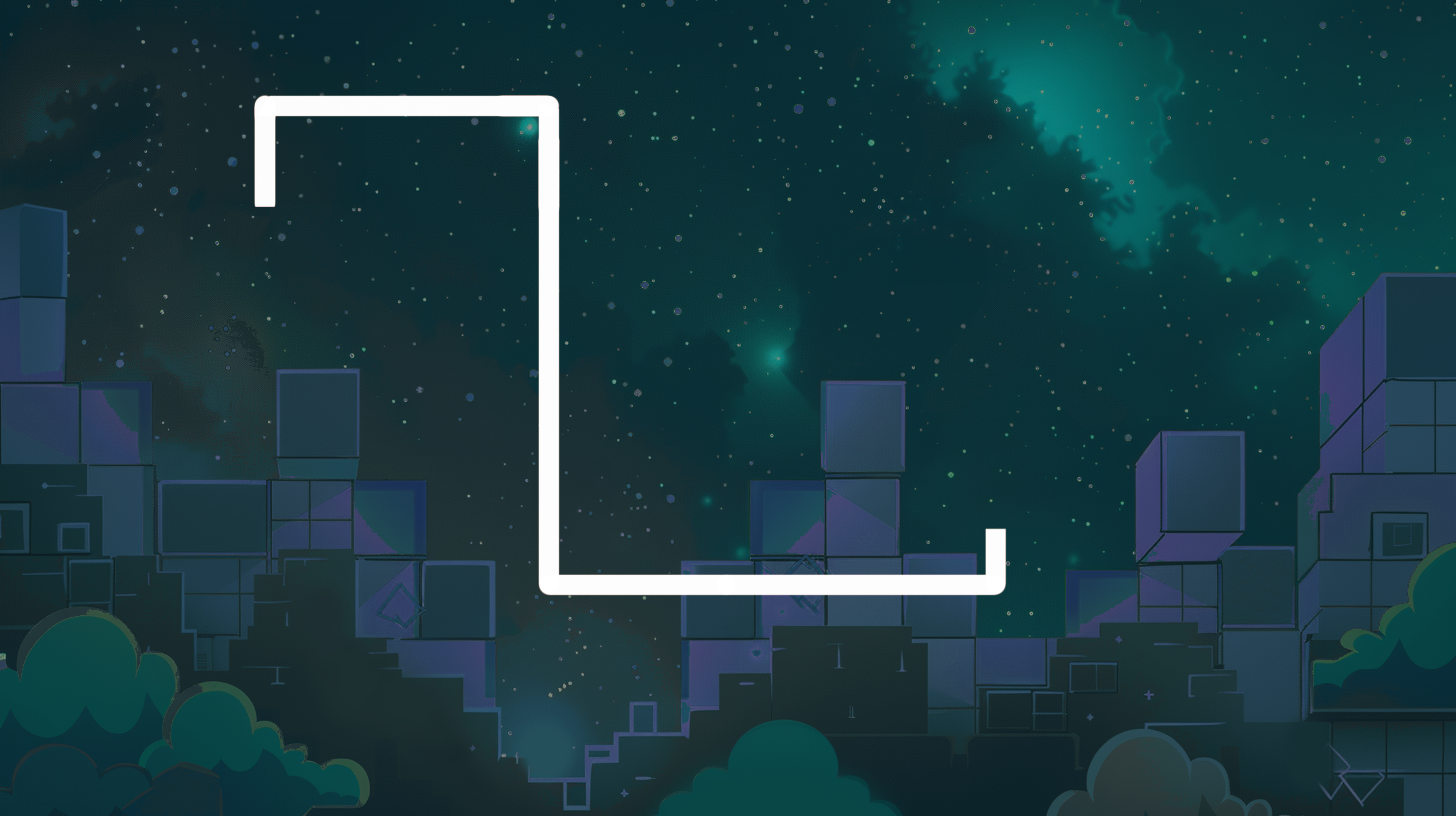
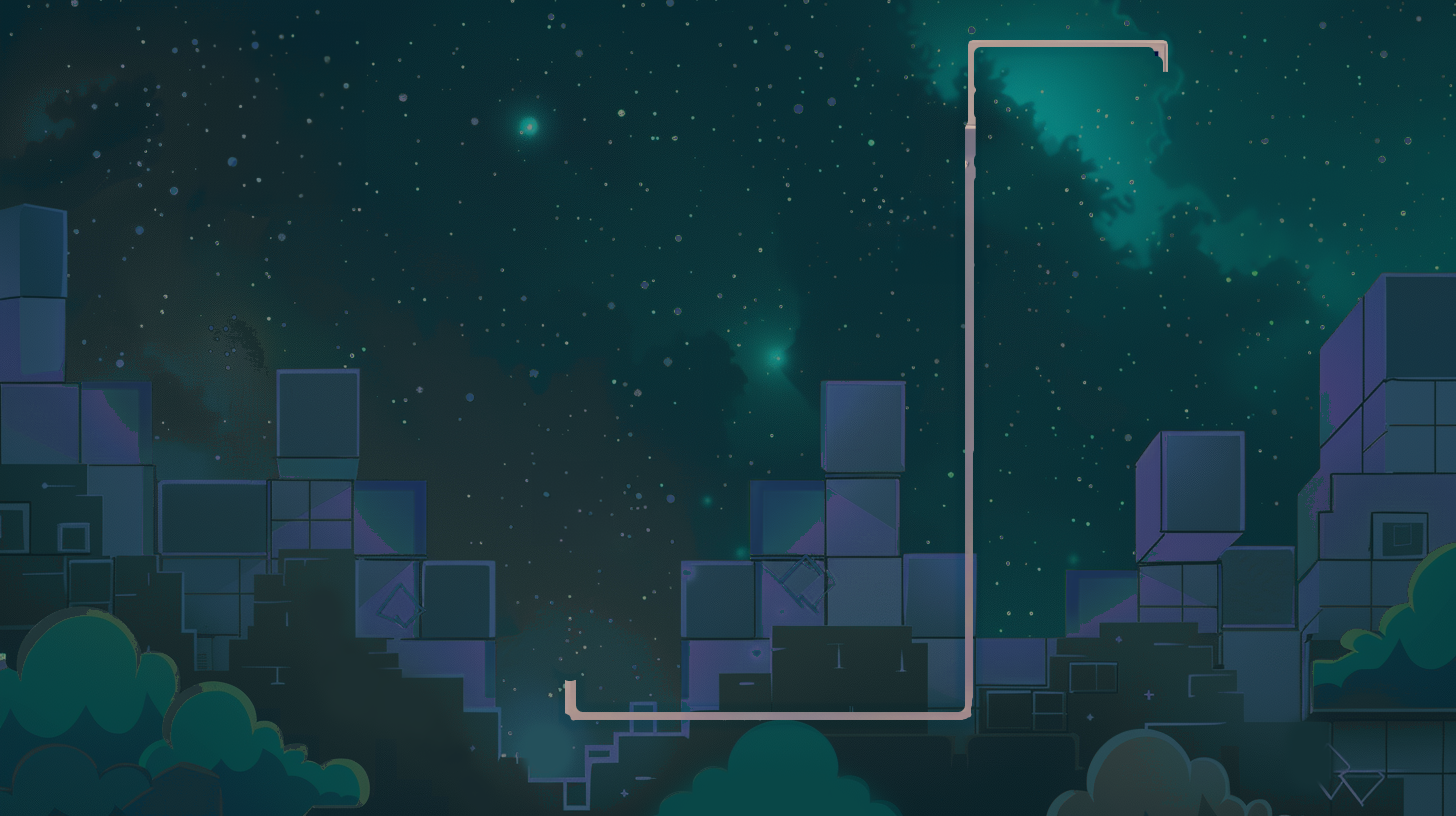
Adding new layout

Changed region(s): [[0.1545, 0.0306, 0.8036, 0.8885]]

diff --git a/huxel-tetris.js b/huxel-tetris.js
@@ -71,7 +71,7 @@ MODES.tetris = {
 		cols: 5,
 		inputRows: 4,
 		inputCols: 5,
-		huxelSize: [45, 45],
+		huxelSize: [55, 55],
 		levels: [
 			{sound: "tetris1", speed: 150},
 			{sound: "tetris2", speed: 125},
@@ -82,7 +82,10 @@ MODES.tetris = {
 			{sound: "tetris7", speed: 30},
 			{sound: "tetris8", speed: 20},
 			{sound: "tetris9", speed: 10},
-		]
+		],
+		textRotation: [-15, 15],
+		textPosX: [700, 740],
+		textPosY: [200, 300],
 	},
 	state: {
 		board: [],
@@ -188,7 +191,7 @@ MODES.tetris = {
 		this.state.playerInput = this.generatePlayerShape();
 	},
 
-	start({p}) {
+	start({p, tracker}) {
 		if (this.state.board.length === 0) {
 			this.setupBoard();
 		}
@@ -199,18 +202,20 @@ MODES.tetris = {
 			this.newActive();
 		}
 		this.state.level = Math.min(this.state.level + 1, this.options.levels.length - 1);
-		console.log(this.options.levels)
 		const sound = this.options.levels[this.state.level].sound;
 		console.log(sound)
 		if (SOUND[sound]) {
 			SOUND[sound].play();
 		}
 		this.state.updateTimer.endTime = this.options.levels[this.state.level].speed;
-		console.log(this.state.updateTimer.endTime)
+		tracker.scale = 2.8;
 	},
 
 	stop({}) {
-		SOUND.tetris1.stop();
+		const sound = this.options.levels[this.state.level].sound;
+		if (SOUND[sound]) {
+			SOUND[sound].stop();
+		}
 	},
 
 	update({p, tracker, huxels, time, particles, debugOptions}) {
@@ -261,8 +266,8 @@ MODES.tetris = {
 		// p.fill(300, 80, 50)
 		p.circle(0, 0, 500)
 
-		this.drawControlGrid(app, {x: 700, y: 200, w: 700, h: 700})
-		this.drawGameArea(app, {x: 210, y: 180, w: this.options.cols * this.options.huxelSize[0], h: this.options.rows * this.options.huxelSize[1]})
+		this.drawControlGrid(app, {x: 230, y: 175, w: 700, h: 700})
+		this.drawGameArea(app, {x: 1260, y: 110, w: this.options.cols * this.options.huxelSize[0], h: this.options.rows * this.options.huxelSize[1]})
 		//this.drawDebug(app);
 	},
 

diff --git a/assets.js b/assets.js
@@ -11,6 +11,7 @@ let COLOR = {
 let IMAGE_ASSET_FILES = {
 	"deer": "clipart2598461.png",
 	"tetrisBackground": "BG_tetris.png",
+	"amazingText": "amazing.png",
     //
     "bird_head": "bird_head.png",
     "bird_body": "bird_body.png",
